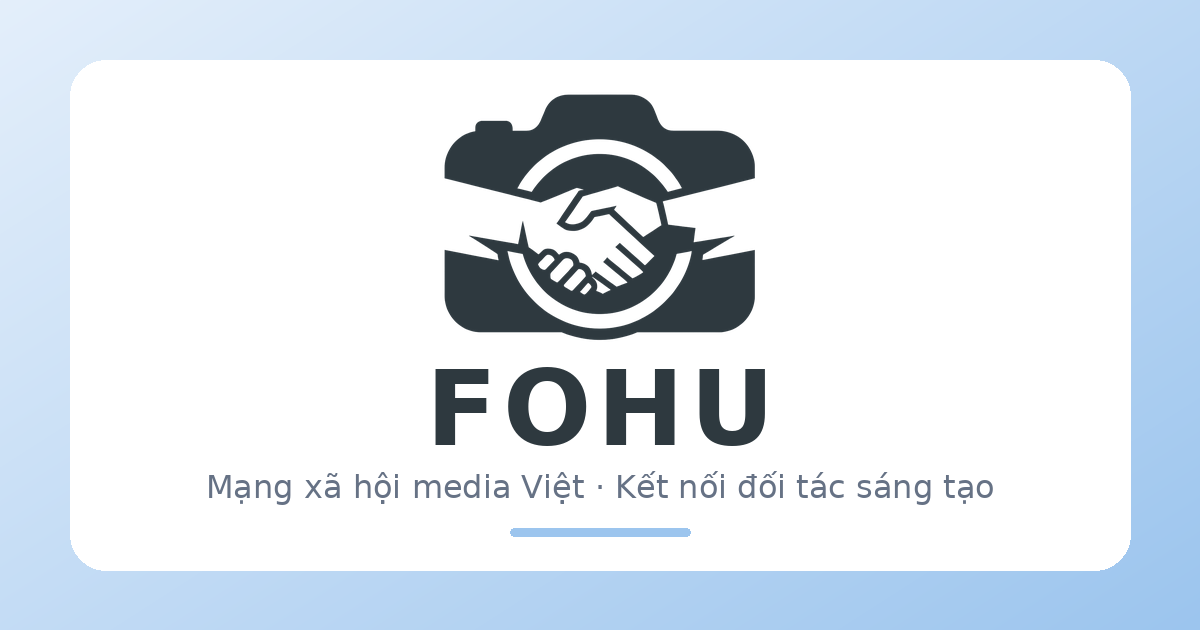
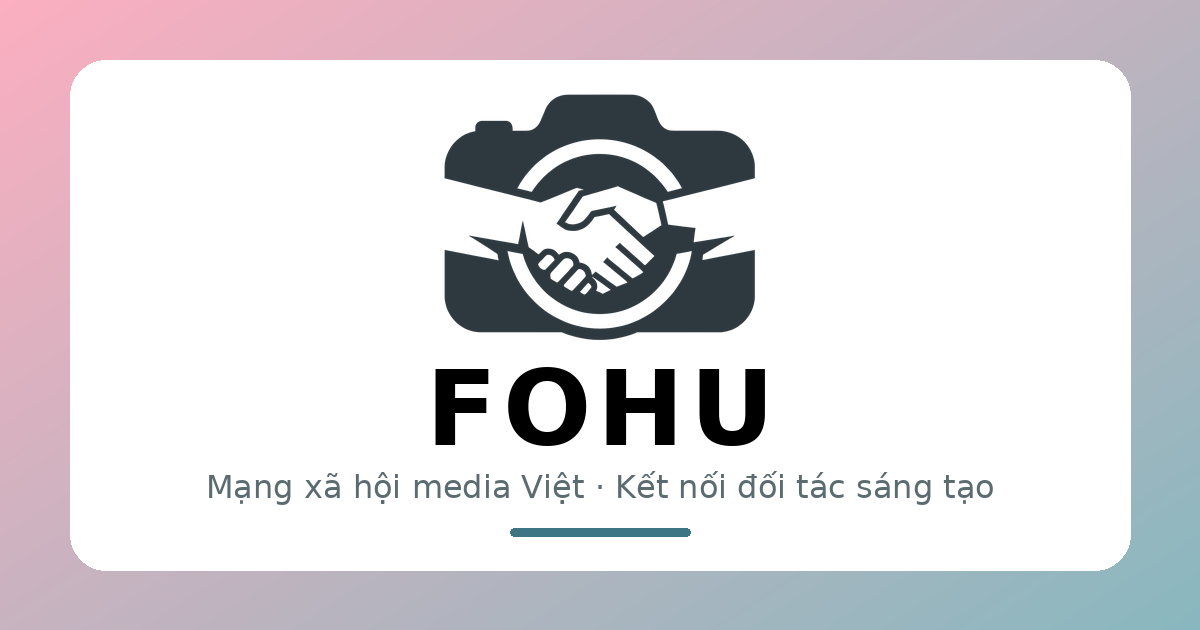
Add files via upload

diff --git a/index.html b/index.html
@@ -3,13 +3,13 @@
 <meta name="description" content="FOHU là mạng xã hội ảnh và video của người Việt: chia sẻ tác phẩm, tìm photographer, videographer, makeup artist, studio, cho thuê trang phục, AI artist, designer và đăng đơn tìm đối tác sáng tạo.">
 <meta name="robots" content="index,follow,max-image-preview:large">
 <link rel="canonical" href="https://fohu.asia/">
-<meta name="theme-color" content="#9CC5EE">
+<meta name="theme-color" content="#FFFFFF">
 <meta property="og:type" content="website"><meta property="og:site_name" content="FOHU"><meta property="og:locale" content="vi_VN">
 <meta property="og:title" content="FOHU – Mạng xã hội media Việt"><meta property="og:description" content="FOHU là mạng xã hội ảnh và video của người Việt: chia sẻ tác phẩm, tìm photographer, videographer, makeup artist, studio, cho thuê trang phục, AI artist, designer và đăng đơn tìm đối tác sáng tạo.">
 <meta property="og:url" content="https://fohu.asia/"><meta property="og:image" content="https://fohu.asia/og-image.png"><meta property="og:image:width" content="1200"><meta property="og:image:height" content="630">
 <meta name="twitter:card" content="summary_large_image"><meta name="twitter:title" content="FOHU – Mạng xã hội media Việt"><meta name="twitter:description" content="FOHU là mạng xã hội ảnh và video của người Việt: chia sẻ tác phẩm, tìm photographer, videographer, makeup artist, studio, cho thuê trang phục, AI artist, designer và đăng đơn tìm đối tác sáng tạo."><meta name="twitter:image" content="https://fohu.asia/og-image.png">
 <script type="application/ld+json">{"@context":"https://schema.org","@graph":[{"@type":"Organization","name":"FOHU","url":"https://fohu.asia/","logo":"https://fohu.asia/fohu-logo.png"},{"@type":"WebSite","name":"FOHU","url":"https://fohu.asia/","inLanguage":"vi"}]}</script>
-<script>try{if(localStorage.fohuLi)document.documentElement.className='li';if(localStorage.th)document.documentElement.dataset.theme=localStorage.th}catch(e){}</script>
+<script>try{if(localStorage.fohuLi)document.documentElement.className='li';if(localStorage.th){document.documentElement.dataset.theme=localStorage.th;if(localStorage.th==='dark')document.querySelector('meta[name=theme-color]').content='#000000'}}catch(e){}</script>
 <meta name="viewport" content="width=device-width, initial-scale=1, viewport-fit=cover">
 <link rel="manifest" href="/manifest.webmanifest">
 <link rel="apple-touch-icon" href="/apple-touch-icon.png">
@@ -24,8 +24,9 @@
 <link rel="preconnect" href="https://media.fohu.asia" crossorigin>
 <link rel="preload" as="image" href="/fohu-logo-sm.png">
 <style>
-:root{--bg:#F3F5F8;--card:#fff;--tx:#252a33;--mu:#667285;--ac:#9CC5EE;--act:#2F6199;--onac:#16314d;--acs:#E4EFFB;--bl:#D9DEE6;--bls:#EDEFF3;--blt:#4A5361;--bd:#E1E5EB}
-[data-theme=dark]{--bg:#14171c;--card:#1d2127;--tx:#edf0f5;--mu:#9aa5b4;--ac:#9CC5EE;--act:#A9CCF0;--onac:#10233a;--acs:#22364b;--bl:#3a404a;--bls:#2a2f38;--blt:#cdd4de;--bd:#2c323b}
+:root{--bg:#FFFFFF;--card:#FFFFFF;--tx:#000000;--mu:#5B6C70;--ac:#3D7584;--act:#3D7584;--onac:#FFFFFF;--acs:#EDF5F6;--bl:#89B8BF;--bls:#EDF4F5;--blt:#000000;--bd:#E3EBEC;--pk:#FCAFC1;--pkd:#C94865}
+html{background:var(--bg)}
+[data-theme=dark]{--bg:#000000;--card:#0E1416;--tx:#FFFFFF;--mu:#9FB3B8;--ac:#89B8BF;--act:#89B8BF;--onac:#000000;--acs:#16272B;--bl:#3D7584;--bls:#16272B;--blt:#FFFFFF;--bd:#1F2D31;--pk:#FCAFC1;--pkd:#E5668A}
 *{box-sizing:border-box}body{margin:0;background:var(--bg);color:var(--tx);font-family:system-ui,-apple-system,"Segoe UI",Roboto,sans-serif}
 button,input,textarea,select{font:inherit;color:inherit}
 nav{position:sticky;top:0;z-index:5;display:flex;align-items:center;gap:6px;padding:8px 16px;background:var(--card);border-bottom:1px solid var(--bd);overflow-x:auto}
@@ -38,11 +39,11 @@ main{max-width:1000px;margin:0 auto;padding:16px}
 .pin{break-inside:avoid;background:var(--card);border-radius:16px;margin-bottom:12px;overflow:hidden;border:1px solid var(--bd)}
 .pin .im{width:100%;display:block}.pin .bd{padding:10px 12px}.pin p{margin:0 0 8px;font-size:14px;word-break:break-word}
 .au{display:flex;align-items:center;gap:8px;font-size:13px;cursor:pointer}
-.av{border-radius:50%;background:linear-gradient(135deg,#9CC5EE,#D9DEE6);flex:none;object-fit:cover;display:inline-flex;align-items:center;justify-content:center;color:#fff;font-weight:700}
-.bdg{font-size:10px;padding:2px 7px;border-radius:10px;font-weight:700}.bdg.standard{background:var(--bl);color:var(--blt)}.bdg.premium{background:var(--ac);color:var(--onac)}
+.av{border-radius:50%;background:linear-gradient(135deg,#FCAFC1,#89B8BF);flex:none;object-fit:cover;display:inline-flex;align-items:center;justify-content:center;color:#000;font-weight:700}
+.bdg{font-size:10px;padding:2px 7px;border-radius:10px;font-weight:700}.bdg.standard{background:var(--bl);color:var(--blt)}.bdg.premium{background:var(--pk);color:#000}
 .act{display:flex;gap:14px;margin-top:8px;font-size:13px;color:var(--mu)}.act span{cursor:pointer}.act .lk{color:var(--act)}
 .cm{font-size:12px;color:var(--mu);margin-top:6px}.cm input{width:100%;border:1px solid var(--bd);background:var(--bg);border-radius:12px;padding:6px 10px;margin-top:6px}
-.cover{height:180px;border-radius:16px;background:linear-gradient(120deg,#E4EFFB,#9CC5EE 55%,#D9DEE6) center/cover}
+.cover{height:180px;border-radius:16px;background:linear-gradient(120deg,#FCAFC1,#89B8BF 55%,#3D7584) center/cover}
 .ph{display:flex;gap:18px;align-items:flex-end;margin:-46px 16px 0;flex-wrap:wrap}.ph .av{border:4px solid var(--bg)}
 .hl{display:flex;gap:14px;overflow-x:auto;padding:8px 0}.hl div{text-align:center;font-size:12px;flex:none}.hl i{display:block;width:64px;height:64px;border-radius:50%;border:2px solid var(--ac);margin-bottom:4px;background:center/cover}
 .grid{display:grid;grid-template-columns:repeat(3,1fr);gap:4px;margin-top:10px}.grid div{aspect-ratio:1;position:relative;background:center/cover}
@@ -77,10 +78,10 @@ nav a{display:inline-flex;align-items:center;justify-content:center}
 .mod select{width:100%;padding:9px;border:1px solid var(--bd);background:var(--bg);border-radius:10px}
 .mod .ck{display:flex;align-items:center;gap:8px;margin:0;padding:8px 4px;font-size:14px;color:var(--tx);cursor:pointer}.mod .ck input{width:auto}
 nav a{position:relative}
-.nb{position:absolute;top:0;right:0;min-width:16px;height:16px;border-radius:8px;background:var(--ac);color:var(--onac);font-size:10px;font-weight:700;display:flex;align-items:center;justify-content:center;padding:0 4px}
-.dt{width:10px;height:10px;border-radius:50%;background:var(--ac);flex:none}
+.nb{position:absolute;top:0;right:0;min-width:16px;height:16px;border-radius:8px;background:var(--pkd);color:#fff;font-size:10px;font-weight:700;display:flex;align-items:center;justify-content:center;padding:0 4px}
+.dt{width:10px;height:10px;border-radius:50%;background:var(--pkd);flex:none}
 .pw{position:relative}.mb{position:absolute;top:8px;right:8px;background:#0009;color:#fff;border-radius:12px;padding:2px 8px;font-size:12px;display:flex;gap:4px;align-items:center;pointer-events:none}
-.act{gap:16px;align-items:center;font-size:inherit}.act span{display:inline-flex;align-items:center;cursor:pointer;color:var(--tx)}.act .lk{color:#f0645a}.act .sp{flex:1;cursor:default}
+.act{gap:16px;align-items:center;font-size:inherit}.act span{display:inline-flex;align-items:center;cursor:pointer;color:var(--tx)}.act .lk{color:#C94865}.act .sp{flex:1;cursor:default}
 .lc{font-size:13px;font-weight:600;margin-top:6px}
 .ph{align-items:flex-start}.ph .pn{flex:1;padding-top:58px;min-width:0}.ph>.btn{margin-top:58px}
 .sk{display:inline-block;font-size:12px;padding:3px 10px;border-radius:12px;background:var(--bls);color:var(--blt);font-weight:600;margin:0 6px 6px 0}
@@ -98,7 +99,7 @@ nav a{position:relative}
 .dh{font-weight:700;margin:0 0 6px}.dh span{font-weight:400;font-size:12px;color:var(--mu);margin-left:6px}
 .db{display:flex;gap:14px;overflow-x:auto;padding:4px 2px 14px;margin-bottom:6px}
 .dc{flex:none;width:72px;text-align:center;font-size:12px;cursor:pointer}.dc span{display:block;margin-top:4px;overflow:hidden;text-overflow:ellipsis;white-space:nowrap}
-.dr{width:68px;height:68px;border-radius:50%;padding:3px;background:linear-gradient(45deg,#CFE3F7,#9CC5EE,#6FA8DC);display:flex;align-items:center;justify-content:center;margin:0 auto}
+.dr{width:68px;height:68px;border-radius:50%;padding:3px;background:linear-gradient(45deg,#FCAFC1,#89B8BF,#3D7584);display:flex;align-items:center;justify-content:center;margin:0 auto}
 .dr .av{width:100%;height:100%;border:3px solid var(--bg);box-sizing:border-box}.dr.seen{background:var(--bd)}.dr.add{background:var(--bd);font-size:30px;color:var(--act)}
 #sv:empty{display:none}#sv{position:fixed;inset:0;z-index:40;background:#000}
 .svw{position:relative;width:min(480px,100vw);height:100vh;height:100dvh;margin:0 auto;background:#111;display:flex;align-items:center;justify-content:center}
@@ -135,7 +136,7 @@ nav a{position:relative}
 .gcap{padding:0 16px 12px;font-size:15px;line-height:1.45;word-break:break-word}
 .gst{display:flex;justify-content:space-between;align-items:center;padding:8px 16px;font-size:13px;color:var(--mu);min-height:34px}
 .gac{display:flex;gap:4px;padding:4px 12px;border-top:1px solid var(--bd);border-bottom:1px solid var(--bd)}
-.gac button{flex:1;display:flex;gap:6px;justify-content:center;align-items:center;padding:8px 0;background:none;border:0;border-radius:8px;color:var(--mu);font-weight:600;font-size:14px;cursor:pointer}.gac button:hover{background:var(--bd)}.gac .on{color:#f0645a}
+.gac button{flex:1;display:flex;gap:6px;justify-content:center;align-items:center;padding:8px 0;background:none;border:0;border-radius:8px;color:var(--mu);font-weight:600;font-size:14px;cursor:pointer}.gac button:hover{background:var(--bd)}.gac .on{color:#C94865}
 .gpb{padding:12px 16px}.gc2{display:flex;gap:8px;margin-bottom:12px}.gbb{background:var(--bd);border-radius:18px;padding:8px 12px;font-size:14px;line-height:1.4;word-break:break-word}.gbb b{display:block;font-size:13px}.gc2 small{display:block;color:var(--mu);font-size:12px;margin:2px 0 0 12px}
 .gpa{border-top:1px solid var(--bd);padding:10px 14px}.gin{display:flex;align-items:center;gap:8px}.gin input{flex:1;border:0;background:var(--bd);border-radius:20px;padding:9px 14px;margin:0;outline:none;font-size:14px;width:auto}
 .rn{display:flex;align-items:center;gap:10px;flex-wrap:wrap;background:var(--acs);border:1px solid var(--ac);border-radius:14px;padding:10px 14px;margin-bottom:14px;font-size:14px}
@@ -228,7 +229,7 @@ button,a{touch-action:manipulation}
 .cmp-f{padding-top:10px}.cmp-p{width:100%}
 .sv-h{display:flex;align-items:center;gap:10px;padding:2px 0 12px;border-bottom:1px solid var(--bd)}.sv-h b{flex:1;text-align:center;font-size:18px;margin-right:36px}
 .fe{display:grid;grid-template-columns:1fr 1fr;gap:6px}.fe button{display:flex;align-items:center;gap:10px;border:1px solid var(--bd);background:var(--card);border-radius:12px;padding:10px 12px;font-size:15px;cursor:pointer;color:var(--tx);text-align:left}.fe button:hover{background:var(--bd)}.fe i{font-style:normal;font-size:24px}
-.lq{width:100%;margin-bottom:8px}.lr{display:flex;align-items:center;gap:10px;padding:10px 6px;border-radius:10px;cursor:pointer}.lr:hover{background:var(--bd)}.lr svg{width:22px;height:22px;color:#f5533d;flex:none}.lr small{display:block;color:var(--mu);font-size:12px}
+.lq{width:100%;margin-bottom:8px}.lr{display:flex;align-items:center;gap:10px;padding:10px 6px;border-radius:10px;cursor:pointer}.lr:hover{background:var(--bd)}.lr svg{width:22px;height:22px;color:#C94865;flex:none}.lr small{display:block;color:var(--mu);font-size:12px}
 .pmeta{display:flex;flex-wrap:wrap;gap:2px 10px;font-size:12px;color:var(--mu);margin:0 0 6px}.pmeta span{display:inline-flex;align-items:center;gap:3px}.pmeta svg{width:13px;height:13px}
 .cmp .cmp-t{border:0;background:transparent;box-shadow:none;border-radius:0;padding:6px 0;margin:0}.cmp .cmp-t:focus{outline:none;box-shadow:none;border:0}
 .lbi,.gcl,.lbs{display:none}
@@ -248,7 +249,7 @@ button,a{touch-action:manipulation}
  .lbi .au2{display:flex;gap:10px;align-items:center}.lbi .au2 b{font-size:15px}.lbi .au2 small{display:block;opacity:.8;font-size:12px}
  .lbcap{margin:8px 0 4px;font-size:14px;line-height:1.4;display:-webkit-box;-webkit-line-clamp:2;-webkit-box-orient:vertical;overflow:hidden}.lbcap.open{display:block;max-height:30vh;overflow:auto}
  .lbcn{display:flex;justify-content:space-between;font-size:13px;opacity:.92;padding:6px 0 8px;border-bottom:1px solid #fff3;min-height:20px}
- .lba{display:flex}.lba button{flex:1;background:none;border:0;color:#fff;display:flex;gap:6px;align-items:center;justify-content:center;padding:10px 0;font-size:14px;font-weight:600;cursor:pointer}.lba svg{width:22px;height:22px}.lba .on{color:#ff6b61}
+ .lba{display:flex}.lba button{flex:1;background:none;border:0;color:#fff;display:flex;gap:6px;align-items:center;justify-content:center;padding:10px 0;font-size:14px;font-weight:600;cursor:pointer}.lba svg{width:22px;height:22px}.lba .on{color:#FCAFC1}
  .lb.pm .gp{position:absolute;left:0;right:0;bottom:0;width:100%;max-width:none;height:72%;border-left:0;border-top:0;border-radius:18px 18px 0 0;z-index:8;transform:translateY(105%);transition:transform .26s ease}
  .lb.pm.cm .gp{transform:none}
  .lbs{position:absolute;inset:0;z-index:7;background:rgba(0,0,0,.45)}.lb.cm .lbs{display:block}
@@ -265,6 +266,7 @@ button,a{touch-action:manipulation}
  .fl2{flex-direction:column;align-items:flex-start;margin-left:0;gap:12px;font-size:14px}
  .fw small{width:auto}
 }
+[data-theme=dark] .nb{color:#000}
 </style></head><body>
 <nav id="nav"><span class="brand"><img src="/fohu-logo-sm.png" alt="" width="40" height="32"><b>FOHU</b></span></nav><main id="app"><section class="hero"><h1>FOHU – Mạng xã hội media Việt</h1><p>Nơi người Việt chia sẻ ảnh và video, kết nối với photographer, videographer, makeup artist, studio, cho thuê trang phục, AI artist và designer cho mọi dự án sáng tạo.</p><div class="hc"><button class="btn" onclick="login()">Đăng nhập với Google</button><a class="btn g" href="/about" data-r="about">Tìm hiểu thêm</a></div>
[1 lines of base64/hex data omitted]
@@ -319,7 +321,7 @@ const gPanel=()=>{const z=GZ;if(!z||!z.pid)return '';const p=findP(z.pid);if(!p)
  const u=U[p.uid]||(p.an?{name:p.an,av:p.aa,username:p.aun}:au?{}:{name:'Thành viên FOHU'}),liked=au&&(p.likedBy||[]).includes(au.uid),n=(p.likedBy||[]).length,cs=C[p.id]||[];
  return `<div class="gph">${av(u,40)}<div style="flex:1;min-width:0"><b onclick="closeZ();nav('u/${p.uid}')">${E(u.name)}</b> ${bdg(u.plan)}${au&&au.uid!==p.uid&&!FOL.has(p.uid)?`<span class="fb2" style="margin-left:8px" onclick="toggleF('${p.uid}')">Quan tâm</span>`:''}<small>${ago(p.at)}</small></div>${au&&au.uid!==p.uid?`<span class="ib" title="Nhắn tin" onclick="closeZ();dm('${p.uid}')">${AI.send}</span>`:''}<button class="ib gcl" title="Đóng" onclick="gSheet(0)">✕</button></div>
  ${p.cap?`<div class="gcap">${E(p.cap)}</div>`:''}${pmeta(p)?`<div style="padding:0 16px 10px">${pmeta(p)}</div>`:''}
- <div class="gst"><span>${n?`<span style="color:#f0645a;display:inline-flex;vertical-align:-3px">${AI.heartS}</span> ${n}`:''}</span><span>${cs.length?cs.length+' bình luận':''}</span></div>
+ <div class="gst"><span>${n?`<span style="color:#C94865;display:inline-flex;vertical-align:-3px">${AI.heartS}</span> ${n}`:''}</span><span>${cs.length?cs.length+' bình luận':''}</span></div>
  <div class="gac"><button class="${liked?'on':''}" onclick="like('${p.id}')">${AI.heart(liked)} Thích</button><button onclick="document.getElementById('gci').focus()">${AI.cm} Bình luận</button><button onclick="share('${p.id}')">${AI.share} Chia sẻ</button></div>
  <div class="gpb">${cs.map(c=>{const cu=U[c.uid]||{};return `<div class="gc2">${av(cu,32)}<div><div class="gbb"><b>${E(cu.name||'')}</b>${E(c.t)}</div><small>${ago(c.at)}</small></div></div>`}).join('')||'<div style="color:var(--mu);font-size:13px;text-align:center;padding:16px 0">Chưa có bình luận nào. Hãy là người đầu tiên!</div>'}</div>
  <div class="gpa">${au?`<div class="gin">${av(me||{},32)}<input id="gci" placeholder="Viết bình luận…" onkeydown="if(event.key==='Enter'&&this.value){cmt('${p.id}',this)}"><button class="ib" title="Gửi" onclick="gSend('${p.id}')">${AI.send}</button></div>`:'<div style="text-align:center;font-size:13px;color:var(--mu)"><a style="color:var(--act);cursor:pointer" onclick="closeZ();login()">Đăng nhập</a> để thích và bình luận</div>'}</div>`};
@@ -358,7 +360,7 @@ const lbTe=e=>{if(!GZ||!lbEl())return;const mode=LB.mode;
 const gInfo=()=>{const z=GZ;if(!z||!z.pid)return '';const p=findP(z.pid);if(!p)return '';
  const u=U[p.uid]||(p.an?{name:p.an,av:p.aa,username:p.aun}:au?{}:{name:'Thành viên FOHU'}),liked=au&&(p.likedBy||[]).includes(au.uid),n=(p.likedBy||[]).length,cs=C[p.id]||[];
  return `<div class="au2">${av(u,36)}<div style="min-width:0"><b>${E(u.name)}</b><small>${ago(p.at)}${p.feel?` · ${E(p.feel.e)} ${E(p.feel.t)}`:''}${p.loc?` · ${E(p.loc)}`:''}</small></div></div>${p.cap?`<div class="lbcap" onclick="this.classList.toggle('open')">${E(p.cap)}</div>`:''}
- <div class="lbcn" onclick="gSheet(1)"><span>${n?`<span style="color:#ff6b61;display:inline-flex;vertical-align:-3px">${AI.heartS}</span> ${n}`:''}</span><span>${cs.length?cs.length+' bình luận':''}</span></div>
+ <div class="lbcn" onclick="gSheet(1)"><span>${n?`<span style="color:#FCAFC1;display:inline-flex;vertical-align:-3px">${AI.heartS}</span> ${n}`:''}</span><span>${cs.length?cs.length+' bình luận':''}</span></div>
  <div class="lba"><button class="${liked?'on':''}" onclick="like('${p.id}')">${AI.heart(liked)} Thích</button><button onclick="gSheet(1)">${AI.cm} Bình luận</button><button onclick="share('${p.id}')">${AI.share} Chia sẻ</button></div>`};
 const gShow=()=>{const z=GZ,pm=!!z.pid;LB.s=1;LB.x=0;LB.y=0;LB.mode='';clearTimeout(LB.pending);
  $('#lb').innerHTML=`<div class="lb${pm?' pm':''}${z.cm?' cm':''}${z.hid?' hid':''}" onclick="if(event.target===this)closeZ()"><button class="lbx" onclick="closeZ()">✕</button><div class="lbm" ontouchstart="lbTs(event)" ontouchmove="lbTm(event)" ontouchend="lbTe(event)" ontouchcancel="lbTe(event)">${z.list&&z.list.length>1?`<button class="lbn l" onclick="gz(-1)">‹</button><button class="lbn r" onclick="gz(1)">›</button><div class="lbc">${z.i+1} / ${z.list.length}</div>`:''}${z.v?`<video src="${E(z.src)}" controls autoplay playsinline></video>`:`<img src="${E(z.src)}" draggable="false">`}</div>${pm?`<div class="lbi" id="lbi">${gInfo()}</div><div class="lbs" onclick="gSheet(0)"></div><div class="gp" id="gp">${gPanel()}</div>`:''}</div>`;
@@ -461,10 +463,10 @@ const cmpMain=()=>{const n=DR.items.length,paid=me?.plan!=='free',first=(me.name
  <div class="cmp-b" ondragover="event.preventDefault()" ondrop="dropF(event)">${n||DR.cap.trim()||DR.feel||DR.loc?`<div class="dn">Bản nháp của bạn được giữ lại. <a onclick="discardDraft()">Xóa bản nháp</a></div>`:''}
   <div class="cmp-a">${av(me,40)}<div style="min-width:0"><b>${E(me.name)}</b>${DR.feel?` <span class="sub">${E(DR.feel.e)} đang cảm thấy ${E(DR.feel.t)} <a class="xx" title="Bỏ cảm xúc" onclick="clrFeel()">✕</a></span>`:''}${DR.loc?` <span class="sub">tại <b>${E(DR.loc)}</b> <a class="xx" title="Bỏ địa điểm" onclick="clrLoc()">✕</a></span>`:''}<div><span class="aud">${AI.globe} Công khai</span></div></div></div>
   <textarea id="cap" class="cmp-t${n?' has':''}" placeholder="${E(first)} ơi, bạn đang nghĩ gì?" rows="3" maxlength="500" oninput="capIn(this)">${E(DR.cap)}</textarea>
-  <div class="cmp-e"><span class="hint" id="hint" style="${n?'display:none':''}">Bấm biểu tượng ảnh xanh lá bên dưới để thêm ảnh${paid?'/video':''} (${paid?'tối đa 10 ảnh hoặc 1 video 100MB':'tối đa 10 ảnh'}).</span><button class="ib" title="Chèn emoji" onclick="togEmo()">${AI.smile}</button><span id="emoc">${emoHtml()}</span></div>
+  <div class="cmp-e"><span class="hint" id="hint" style="${n?'display:none':''}">Bấm biểu tượng ảnh bên dưới để thêm ảnh${paid?'/video':''} (${paid?'tối đa 10 ảnh hoặc 1 video 100MB':'tối đa 10 ảnh'}).</span><button class="ib" title="Chèn emoji" onclick="togEmo()">${AI.smile}</button><span id="emoc">${emoHtml()}</span></div>
   <input type="file" id="f" accept="${acc}" multiple onchange="pick(this)" hidden>
   <div class="ug" id="ug"></div>
-  <div class="cmp-tb"><span>Thêm vào bài viết</span><div><label for="f" class="tb" title="Ảnh/Video" style="color:#45bd62">${AI.imgI}</label><button class="tb${DR.loc?' on':''}" title="Check-in" onclick="cmpGo('loc')" style="color:#f5533d">${AI.pin}</button><button class="tb${DR.feel?' on':''}" title="Cảm xúc" onclick="cmpGo('feel')" style="color:#f7b928">${AI.smile}</button></div></div>
+  <div class="cmp-tb"><span>Thêm vào bài viết</span><div><label for="f" class="tb" title="Ảnh/Video" style="color:#3D7584">${AI.imgI}</label><button class="tb${DR.loc?' on':''}" title="Check-in" onclick="cmpGo('loc')" style="color:#C94865">${AI.pin}</button><button class="tb${DR.feel?' on':''}" title="Cảm xúc" onclick="cmpGo('feel')" style="color:var(--tx)">${AI.smile}</button></div></div>
  </div>
  <div class="cmp-f"><div id="us" style="font-size:12px;color:var(--mu);margin-bottom:6px">${E(USLINE)}</div><div class="err" id="er"></div><button class="btn cmp-p" id="pb" onclick="post()" disabled>Đăng</button></div>`};
 const cmpFeel=()=>`<div class="sv-h"><button class="ib" title="Quay lại" onclick="cmpGo('main')">${AI.back}</button><b>Bạn đang cảm thấy thế nào?</b></div><div class="cmp-b"><div class="fe">${FEEL.map(([e,t],i)=>`<button onclick="setFeel(${i})"><i>${e}</i>${t}</button>`).join('')}</div></div>`;
@@ -568,7 +570,7 @@ const PUBR={home:'',about:'Giới thiệu',privacy:'Chính sách bảo mật',te
 const seoMeta=r=>{try{const pub=r in PUBR;document.title=pub&&PUBR[r]?PUBR[r]+' – FOHU':'FOHU – Mạng xã hội media Việt';const rb=document.querySelector('meta[name=robots]');if(rb)rb.content=pub?'index,follow,max-image-preview:large':'noindex,nofollow';const cn=document.querySelector('link[rel=canonical]');if(cn)cn.href='https://fohu.asia'+(r==='home'?'/':'/'+r)}catch(e){}};
 function drawNow(){Z=[];const r=route().split('/')[0];seoMeta(r);
  if(!bootOk()){let li=false;try{li=!!localStorage.fohuLi}catch(e){}if(li){$('#nav').innerHTML=BRAND;$('#app').innerHTML=skeleton();$('#bb').innerHTML=''}return}track(r);if(au){if(r==='home')ensureDaily();if(r==='orders')ensureOrders()}
- document.documentElement.dataset.theme=localStorage.th||'';
+ document.documentElement.dataset.theme=localStorage.th||'';try{const tc=document.querySelector('meta[name=theme-color]');if(tc)tc.content=localStorage.th==='dark'?'#000000':'#FFFFFF'}catch(e){}
  $('#nav').innerHTML=`${BRAND}`+[['home','Trang chủ'],['orders','Đơn hàng'],['inbox','Tin nhắn'],['partner','Đối tác'],['me','Cá nhân']].map(([k,v])=>`<a id="n-${k}" class="${r==k?'on':''}${(!au||['home','orders','inbox','me'].includes(k))?' m-hide':''}" title="${v}" aria-label="${v}"${k==='me'?' onmouseenter="meHov(1)" onmouseleave="meHov(0)"':''} onclick="go('${k}')">${ICO[k]}${k==='inbox'&&unrChats()?`<span class="nb">${unrChats()}</span>`:''}</a>`).join('')+(au?`<a id="bell" class="${bellOpen?'on':''}" title="Thông báo" aria-label="Thông báo" onclick="toggleBell()">${ICO.bell}${unrN()?`<span class="nb">${unrN()>9?'9+':unrN()}</span>`:''}</a><button class="btn m-hide" onclick="compose()">+ Đăng</button>`:`<button class="btn lgb" onclick="login()"><span class="lgd">Đăng nhập Google</span><span class="lgm">Đăng nhập</span></button>`);
  $('#np').innerHTML=bellOpen&&au?notifPanel():'';
  $('#mp').innerHTML=au?mePanel():'';
